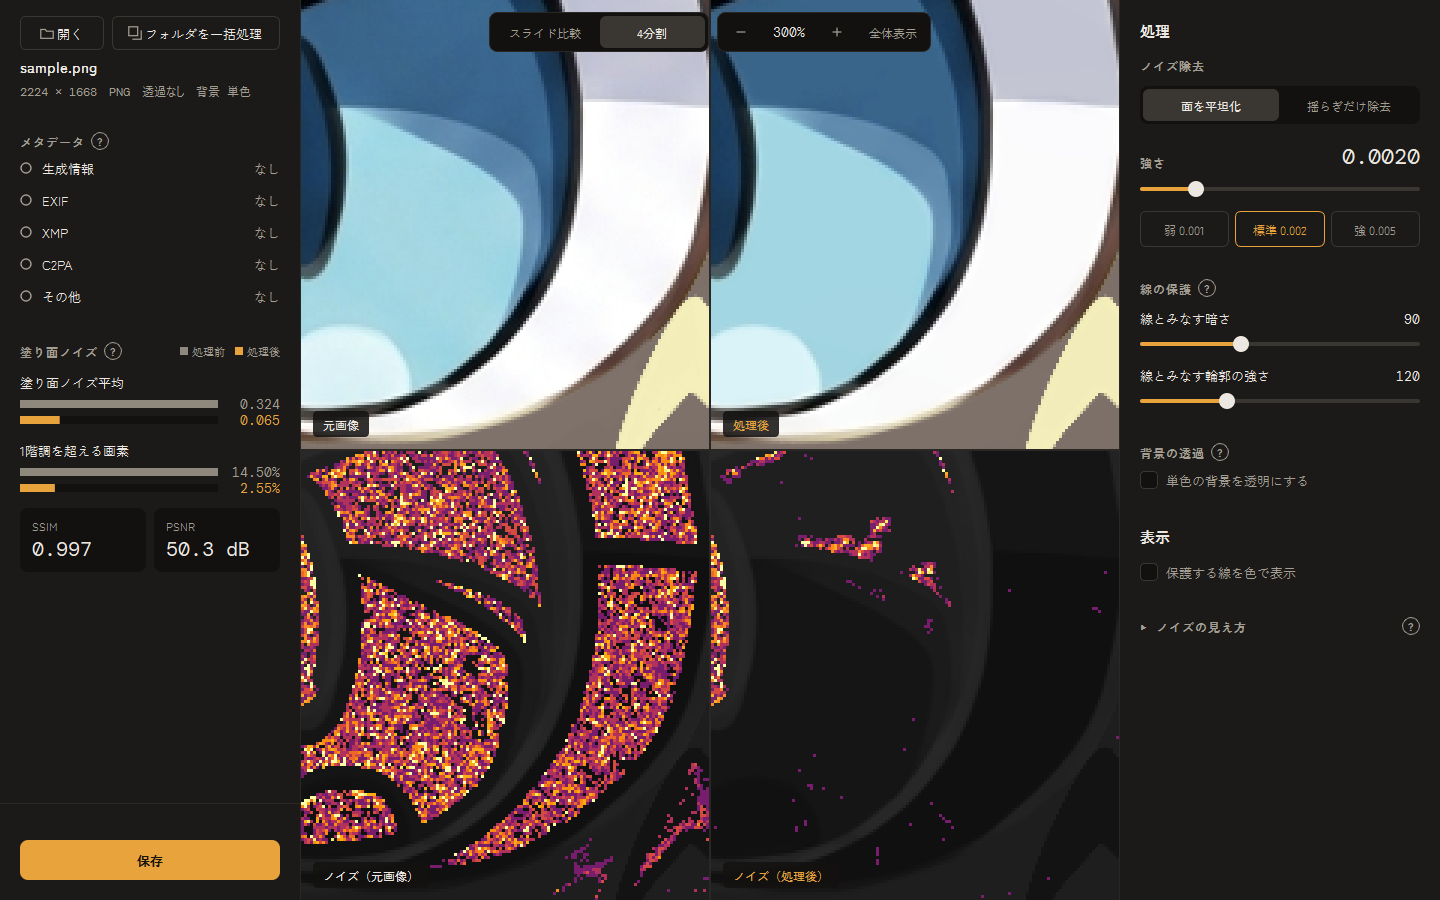
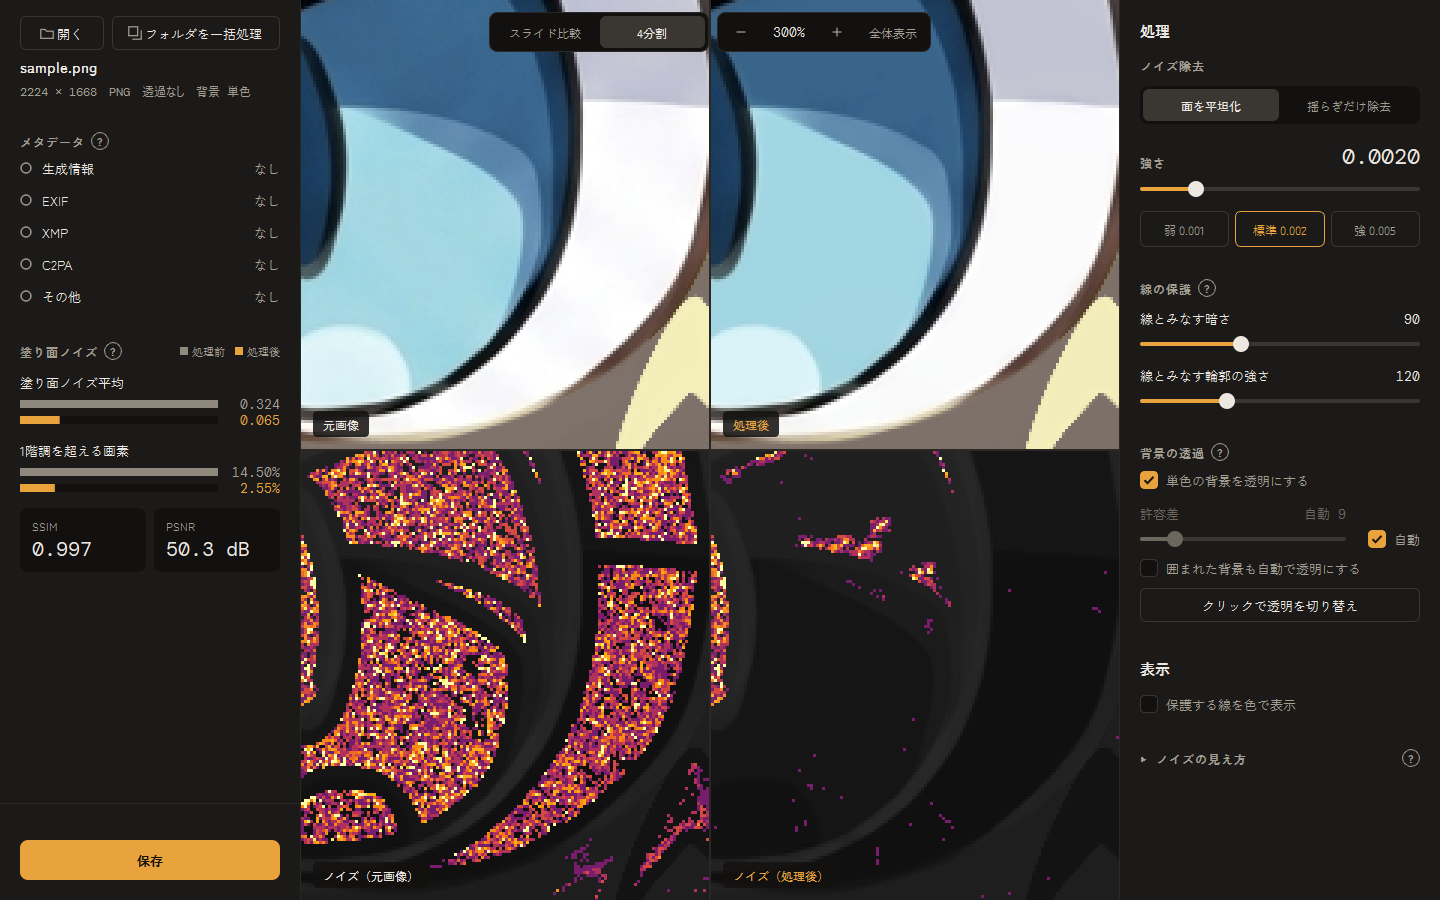
画面のキャプチャを背景の透過をオンにして撮り直し、バナーを背景ありの1枚に戻す
処理後の画像で透過の結果も分かるよう、撮影ツールでは画像を開いたあと透過をオンにする。
バナーの透明化とライト・ダーク用の2枚分けは取りやめる（サブタイトルは外したまま）。

diff --git a/tools/make_banner.py b/tools/make_banner.py
@@ -1,6 +1,6 @@
-"""README の先頭に置くバナー（1280×640、背景は透明）を、GitHub のライト表示用とダーク表示用の2枚作る
+"""README の先頭と GitHub の共有画像に使うバナー（1280×640）を作る
 
-使い方: python tools/make_banner.py   # docs/banner-light.png と docs/banner-dark.png（画面は docs/main.png を使う）
+使い方: python tools/make_banner.py [出力.png]   # 既定は docs/banner.png（画面は docs/main.png を使う）
 """
 import sys
 from pathlib import Path
@@ -17,12 +17,6 @@ W, H = 1280, 640
 MARGIN = 72
 FEATURES = ('メタデータの確認と消去', '塗り面ノイズの可視化と除去', '単色背景の透過')
 
-# 表示ごとの文字色（名前, 機能, 下の小さな文字, 画面の枠）
-PALETTES = {
-    'dark': (theme.TEXT, theme.MUTED, theme.DISABLED, theme.BORDER_STRONG),
-    'light': ('#1f1d1a', '#57534c', '#8a847a', '#d6d2ca'),
-}
-
 app = QApplication.instance() or QApplication(sys.argv)
 theme.load_fonts()
 
@@ -34,45 +28,45 @@ def font(family, size, weight=QFont.Normal):
     return f
 
 
-for name, (title_color, text_color, note_color, frame_color) in PALETTES.items():
-    img = QImage(W, H, QImage.Format_ARGB32)
-    img.fill(Qt.transparent)
-    p = QPainter(img)
-    p.setRenderHint(QPainter.Antialiasing)
-    p.setRenderHint(QPainter.SmoothPixmapTransform)
+img = QImage(W, H, QImage.Format_ARGB32)
+img.fill(QColor(theme.BG))
+p = QPainter(img)
+p.setRenderHint(QPainter.Antialiasing)
+p.setRenderHint(QPainter.SmoothPixmapTransform)
 
-    # 右：実際の画面。右端と下端は切れてよい
-    shot = QImage(str(ROOT / 'docs' / 'main.png'))
-    shot = shot.scaledToWidth(760, Qt.SmoothTransformation)
-    frame = QRectF(600, 96, shot.width(), shot.height())
-    clip = QPainterPath()
-    clip.addRoundedRect(frame, 14, 14)
-    p.save()
-    p.setClipPath(clip)
-    p.drawImage(frame.topLeft(), shot)
-    p.restore()
-    p.setPen(QPen(QColor(frame_color), 2))
-    p.setBrush(Qt.NoBrush)
-    p.drawRoundedRect(frame, 14, 14)
+# 右：実際の画面。右端と下端は切れてよい
+shot = QImage(str(ROOT / 'docs' / 'main.png'))
+shot = shot.scaledToWidth(760, Qt.SmoothTransformation)
+frame = QRectF(600, 96, shot.width(), shot.height())
+clip = QPainterPath()
+clip.addRoundedRect(frame, 14, 14)
+p.save()
+p.setClipPath(clip)
+p.drawImage(frame.topLeft(), shot)
+p.restore()
+p.setPen(QPen(QColor(theme.BORDER_STRONG), 2))
+p.setBrush(Qt.NoBrush)
+p.drawRoundedRect(frame, 14, 14)
 
-    # 左：アイコン・名前・できること
-    p.drawPixmap(MARGIN, 150, icons.app_pixmap(88))
-    p.setPen(QColor(title_color))
-    p.setFont(font(theme.FONT_MONO, 46, QFont.Medium))
-    p.drawText(QPointF(MARGIN, 318), 'ai-illust-cleaner')
-    p.setFont(font(theme.FONT_UI, 21, QFont.Medium))
-    for i, text in enumerate(FEATURES):
-        y = 392 + i * 42
-        p.setPen(Qt.NoPen)
-        p.setBrush(QColor(theme.ACCENT))
-        p.drawEllipse(QPointF(MARGIN + 6, y - 7), 5, 5)
-        p.setPen(QColor(text_color))
-        p.drawText(QPointF(MARGIN + 24, y), text)
-    p.setFont(font(theme.FONT_MONO, 16))
-    p.setPen(QColor(note_color))
-    p.drawText(QPointF(MARGIN, H - 56), 'Windows  ·  MIT License')
+# 左：アイコン・名前・できること
+p.drawPixmap(MARGIN, 150, icons.app_pixmap(88))
+p.setPen(QColor(theme.TEXT))
+p.setFont(font(theme.FONT_MONO, 46, QFont.Medium))
+p.drawText(QPointF(MARGIN, 318), 'ai-illust-cleaner')
+p.setFont(font(theme.FONT_UI, 21, QFont.Medium))
+for i, text in enumerate(FEATURES):
+    y = 392 + i * 42
+    p.setPen(Qt.NoPen)
+    p.setBrush(QColor(theme.ACCENT))
+    p.drawEllipse(QPointF(MARGIN + 6, y - 7), 5, 5)
+    p.setPen(QColor(theme.MUTED))
+    p.drawText(QPointF(MARGIN + 24, y), text)
+p.setFont(font(theme.FONT_MONO, 16))
+p.setPen(QColor(theme.DISABLED))
+p.drawText(QPointF(MARGIN, H - 56), 'Windows  ·  MIT License')
 
-    p.end()
-    out = ROOT / 'docs' / f'banner-{name}.png'
-    img.save(str(out))
-    print('saved:', out)
+p.end()
+out = Path(sys.argv[1]) if len(sys.argv) > 1 else ROOT / 'docs' / 'banner.png'
+out.parent.mkdir(parents=True, exist_ok=True)
+img.save(str(out))
+print('saved:', out)

diff --git a/tools/gui_shot.py b/tools/gui_shot.py
@@ -57,6 +57,7 @@ def shot(name):
 wait(300)
 shot('0_empty')
 win.open_image(a.src)
+win.panel.cutout.setChecked(True)   # 背景の透過の結果も写す
 settle()
 shot('1_quad_fit')
 

diff --git a/README.md b/README.md
@@ -1,9 +1,6 @@
 # ai-illust-cleaner
 
-<picture>
-  <source media="(prefers-color-scheme: dark)" srcset="docs/banner-dark.png">
-  <img alt="ai-illust-cleaner" src="docs/banner-light.png">
-</picture>
+![ai-illust-cleaner](docs/banner.png)
 
 AI生成イラストのメタデータを確かめて消し、塗りのノイズを取り除く Windows 用のツール。
 
